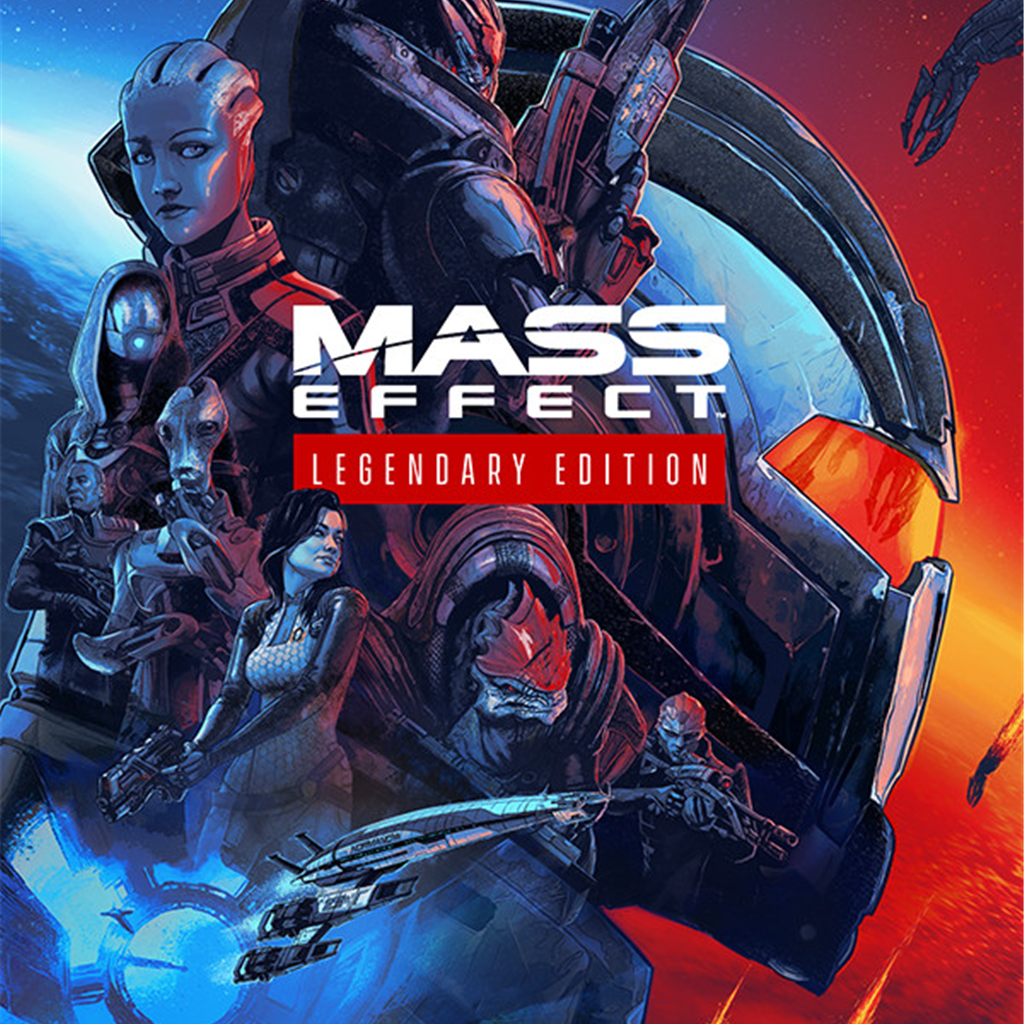
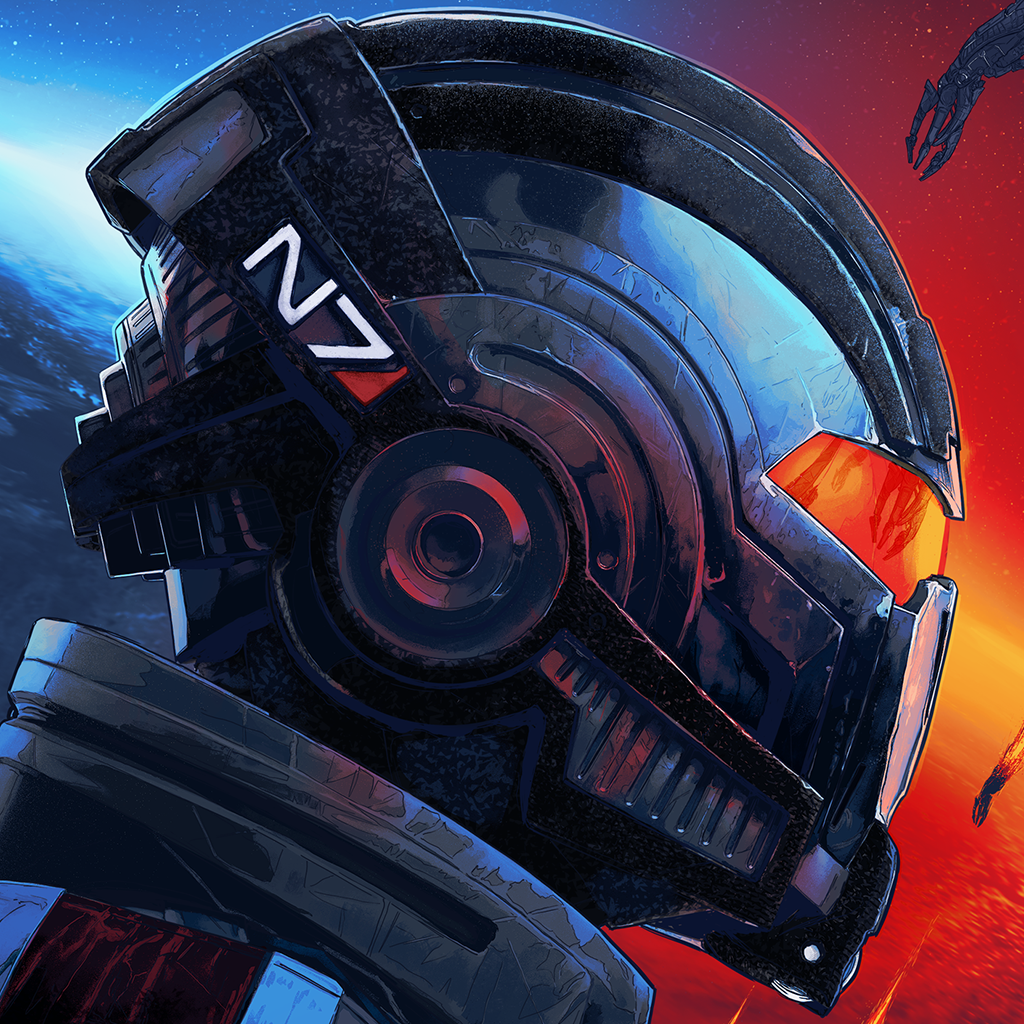
M3-compatible packaging: dist script, INSTALL.txt, ini example, full README

diff --git a/README.md b/README.md
@@ -1,32 +1,101 @@
 # MELE Discord Rich Presence Mod
 
-Discord Rich Presence (the activity box under your Discord name) for **Mass Effect: Legendary Edition**.
+Native (ASI) mod that gives **Mass Effect: Legendary Edition** a proper Discord Rich Presence:
+which game you're playing (LE1/LE2/LE3), main-menu vs. current location, and a session playtime timer — rendered with official game art.
 
-- Works in **LE1, LE2 and LE3** (one file for all three).
-- Shows which game you are playing, main menu vs in-game, current area, and a playtime timer.
-- Talks directly to the Discord desktop app over its local IPC pipe — no OAuth, no background services.
+- **Ship shape**: single `MELEDiscordRPC.asi` works in all three games (process-name detection at load).
+- **No dependency on closed SDKs**: talks straight to the Discord desktop app over its local IPC pipe (`\\?\pipe\discord-ipc-*`). No OAuth, no background service, no DLL shipping.
+- **Requires**: the MELE ASI loader (bink2w64 proxy, standard for MELE mods) and Discord desktop running.
 
-## Status
+## How it works
 
-In development. See `README.md` growth over milestones in git history.
+1. Loaded at game start by the ASI loader.
+2. Detects the game (`MassEffect1/2/3.exe`), pattern-scans `GWorld`, the SFX name pools and `ProcessEvent` (patterns sourced from the public LExSDKv2/LExASIs projects — stable since BioWare no longer patches the trilogy).
+3. Hooks `ProcessEvent` (via MinHook) so all game-state reads happen on the game thread.
+4. Every 500 ms reads the current world's root package name (via `SFXName` pools) and publishes presence state.
+5. A worker thread keeps one Discord IPC pipe connection alive: sends `SET_ACTIVITY` when state changes, ping keep-alives otherwise, reconnects if Discord restarts.
+
+Unknown maps show as `Exploring` (or raw package name if enabled) — see [Configuration](#configuration).
 
 ## Project layout
 
 | Path | Purpose |
 |---|---|
-| `src/` | ASI mod source code (C++, MSVC) |
-| `toolkit/rpc_test/` | Standalone Discord IPC test tool (no game needed) |
-| `assets/art/` | Art assets to upload in the Discord developer portal |
-| `External/MinHook/` | Hooking library (submodule) |
-| `build/out/` | Build output (`MELEDiscordRPC.asi`, `rpc_test.exe`) |
+| `src/` | ASI mod source (C++, MSVC, x64) |
+| `toolkit/rpc_test/` | Standalone Discord IPC tester (no game needed) |
+| `assets/art/` | Art to upload into the Discord developer portal (`le1`, `le2`, `le3`, `menu`) — official icons extracted from the game exes + official key art |
+| `scripts/package.ps1` | Builds the distribution zip into `dist/` |
+| `dist/` | Release output |
+| `External/MinHook/` | Hooking library (git submodule, MIT) |
+
+## Discord application setup
+
+Rich presence needs a Discord **application** (free):
+
+1. Create an app at `https://discord.com/developers/applications` named `Mass Effect Legendary Edition` (this name is the top line your friends see).
+2. Note the **Application ID**.
+3. Under **Rich Presence → Art Assets** upload:
+   - `assets/art/le1.png` as asset name `le1`
+   - `assets/art/le2.png` as asset name `le2`
+   - `assets/art/le3.png` as asset name `le3`
+   - your launcher/menu icon as asset name `menu`
+4. Nothing else (no bot, no OAuth redirect) is needed.
 
 ## Build (one-time setup)
 
-Requires VS Build Tools 2022 with the "Desktop development with C++" workload (already installed on this machine).
+Requires VS Build Tools 2022 with the "Desktop development with C++" workload.
 
 ```powershell
 cmake -S . -B build -G "Visual Studio 17 2022" -A x64
 cmake --build build --config Release
 ```
 
-Outputs land in `build\out\`.
+Outputs: `build\out\MELEDiscordRPC.asi` and `build\out\rpc_test.exe`.
+
+## Configuration
+
+Copy `MELEDiscordRPC.ini.example` to `MELEDiscordRPC.ini`, next to the `.asi`, and set `client_id=`.
+
+| Key | Meaning | Default |
+|---|---|---|
+| `client_id` | Discord application ID | compiled-in value |
+| `enabled` | Mod on/off (without uninstalling) | `1` |
+| `debug` | Opens a debug console window while the game runs | `0` |
+| `show_raw_packages` | Show internal map names ("Exploring BioA_Xxx") instead of "Exploring" | `0` |
+| `show_game_number` | State line says "Mass Effect 2" vs "Mass Effect" | `1` |
+
+## Installation
+
+### Manual
+
+1. Have the ASI loader installed (ME3Tweaks Mod Manager installs it for you: **Mod Management → ASI Mod Manager**).
+2. Copy `MELEDiscordRPC.asi` + `MELEDiscordRPC.ini` into `Game\ME1\Binaries\Win64\` (repeat for ME2/ME3 as desired).
+3. Launch the game with Discord running.
+
+Full details in `dist\INSTALL.txt`, bundled in every release zip.
+
+### Via ME3Tweaks Mod Manager (planned)
+
+M3's **ASI Mod Manager** installs .asi files from the ME3Tweaks manifest for the community; its rule: **listed mods must publish source code + a direct download link**. Publishing path:
+
+1. Push this repo to GitHub (`https://github.com/toothterrific/MELE-Discord-RPC`).
+2. Tag a GitHub Release (e.g. `v1.0`) with `scripts/package.ps1` output (`dist\MELEDiscordRPC_v1.0.zip`) attached as an asset.
+3. Submit the repo + release link to ME3Tweaks (forums or the ME3Tweaks Discord) to request manifest listing. Users then install one-click from M3's ASI Mod Manager.
+
+Until listed, manual install works identically.
+
+## Diagnosing
+
+`debug=1` in the ini opens a console panel; logs always go to `%LOCALAPPDATA%\MELEDiscordRPC\`.
+
+Watched failure modes:
+- Patterns not found → game updated in a future re-release (very unlikely; last game patch predates this mod).
+- Lookups fail → check log for `Name lookup failed` lines.
+-presence not visible → Discord desktop must be running; verify client_id.
+
+## Credits
+
+- ME3Tweaks / SirCxyrtyx / Mgamerz — ASI ecosystem, patterns, LExSDKv2 knowledge base.
+- Erik-JS — ASI loader ecosystem for MELE.
+- TsudaKageyu — MinHook.
+- BioWare/EA — the games, the official art (extracted from the games' own resources).
